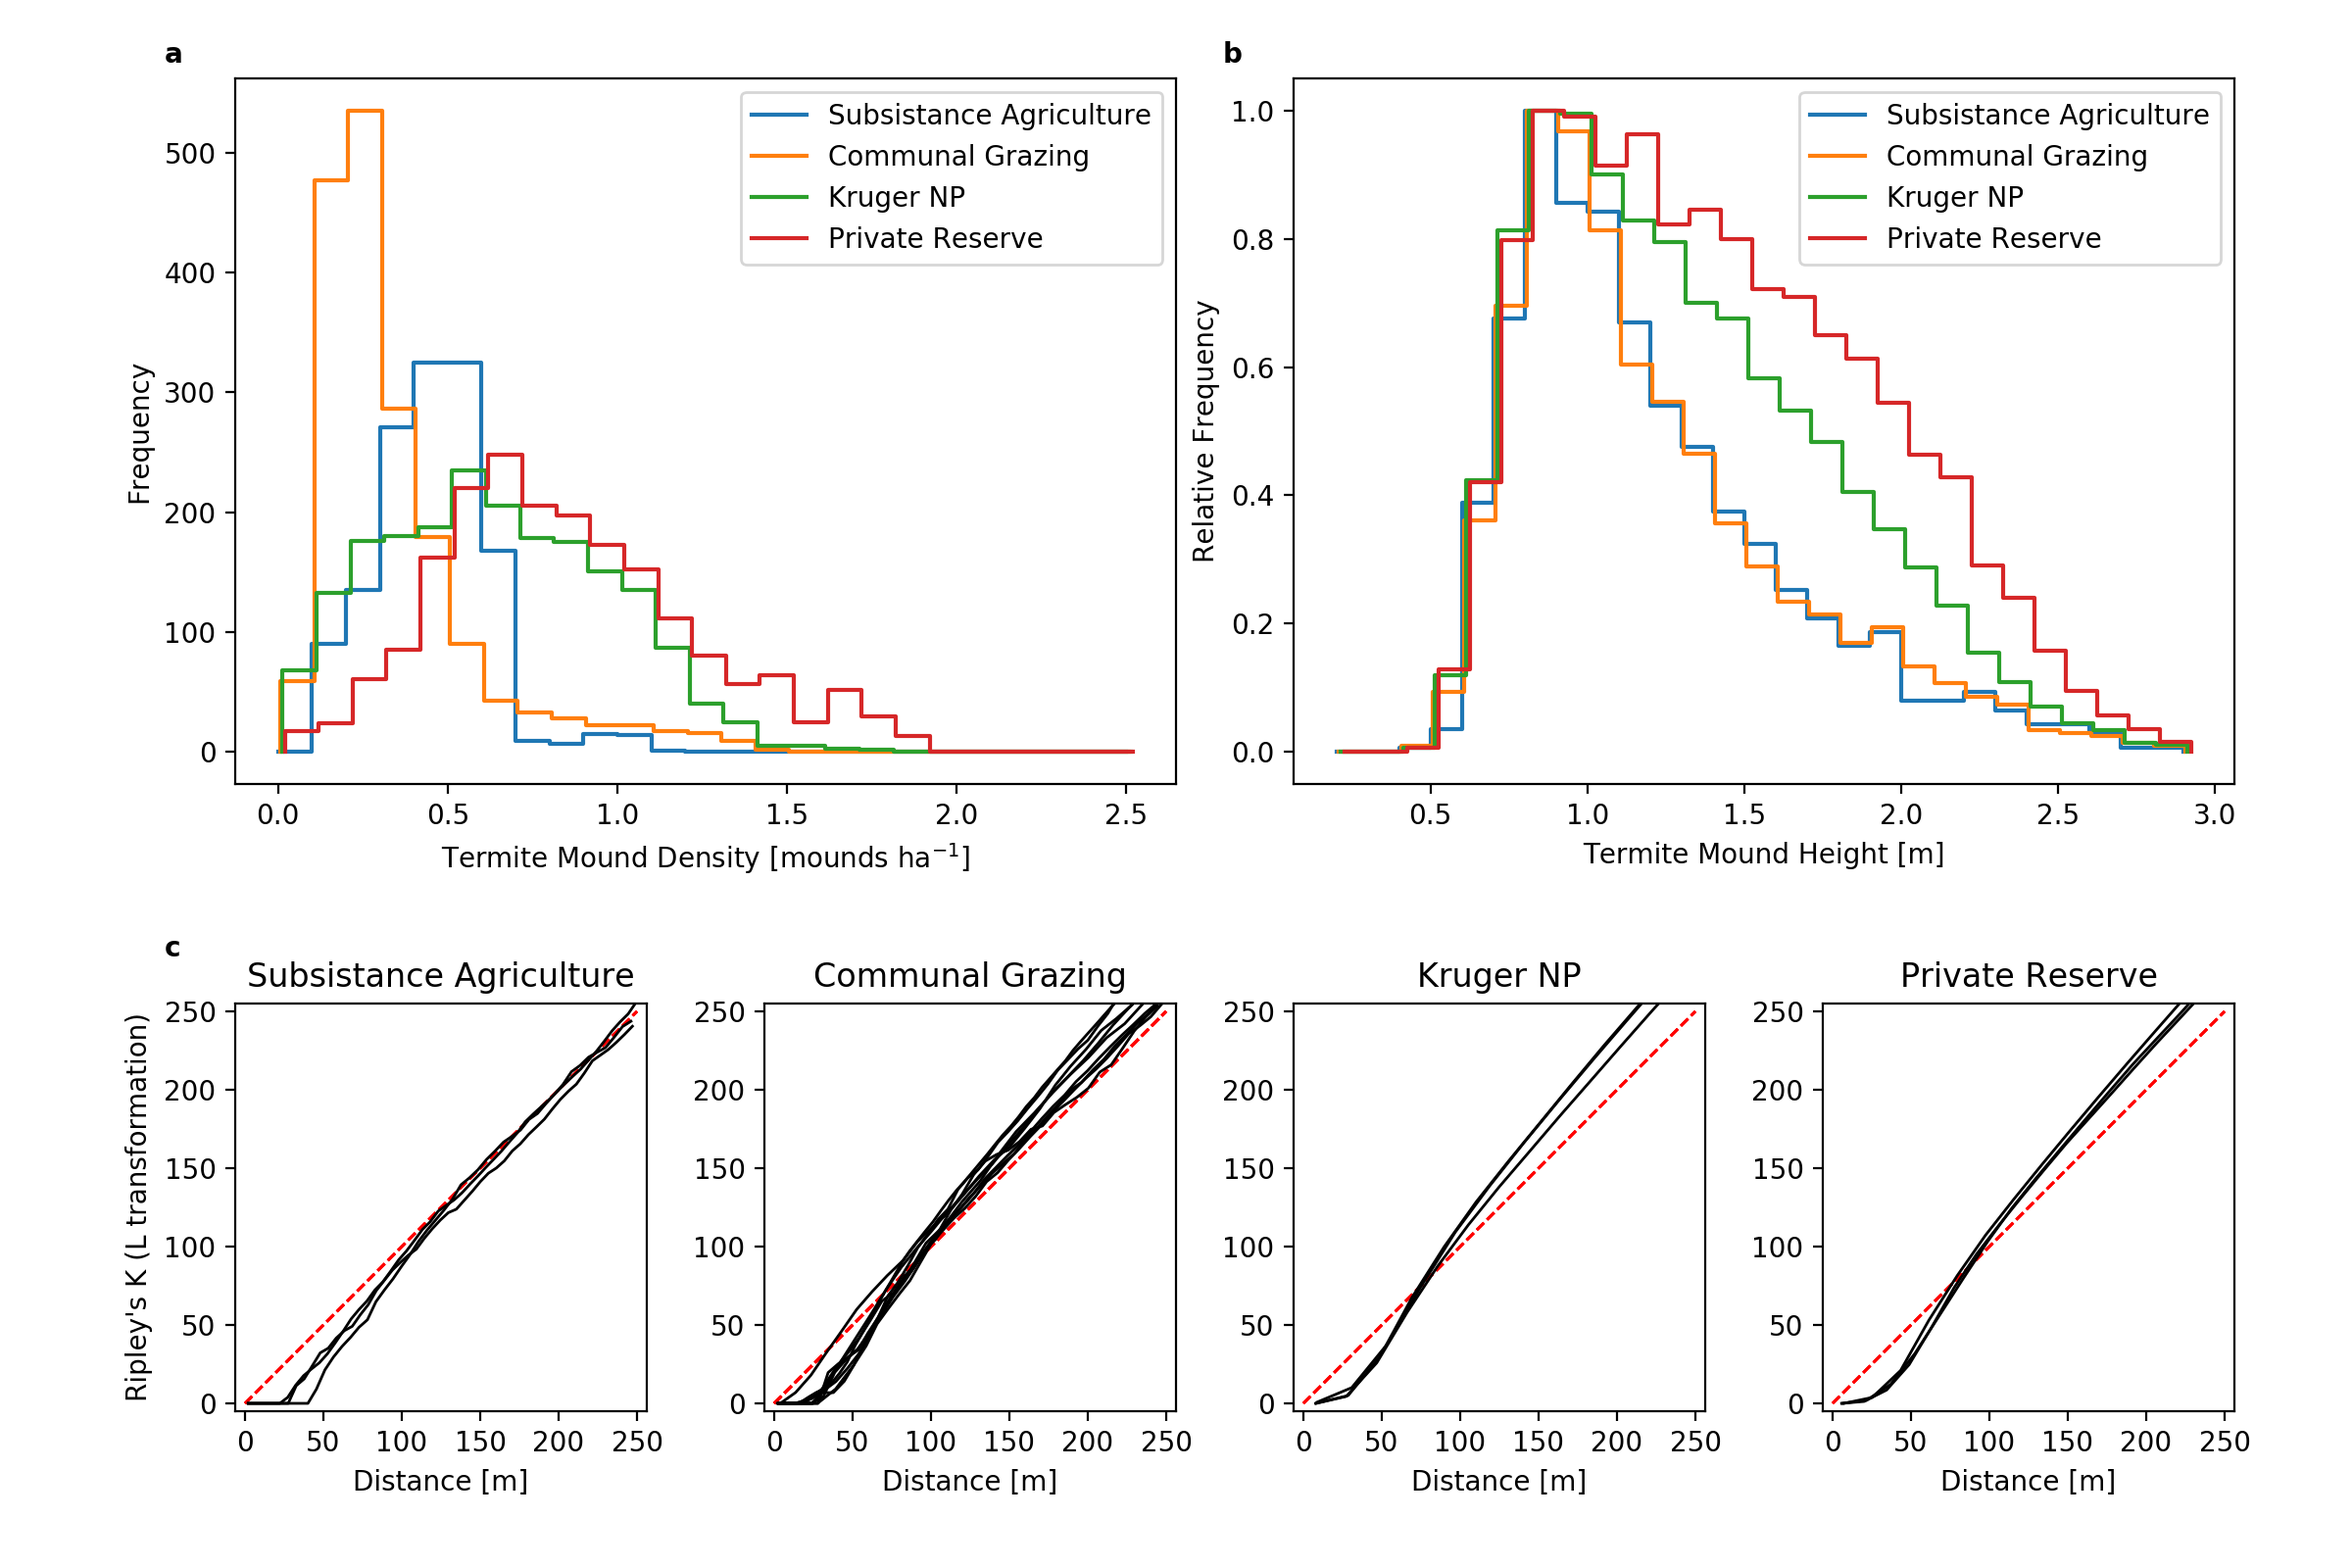
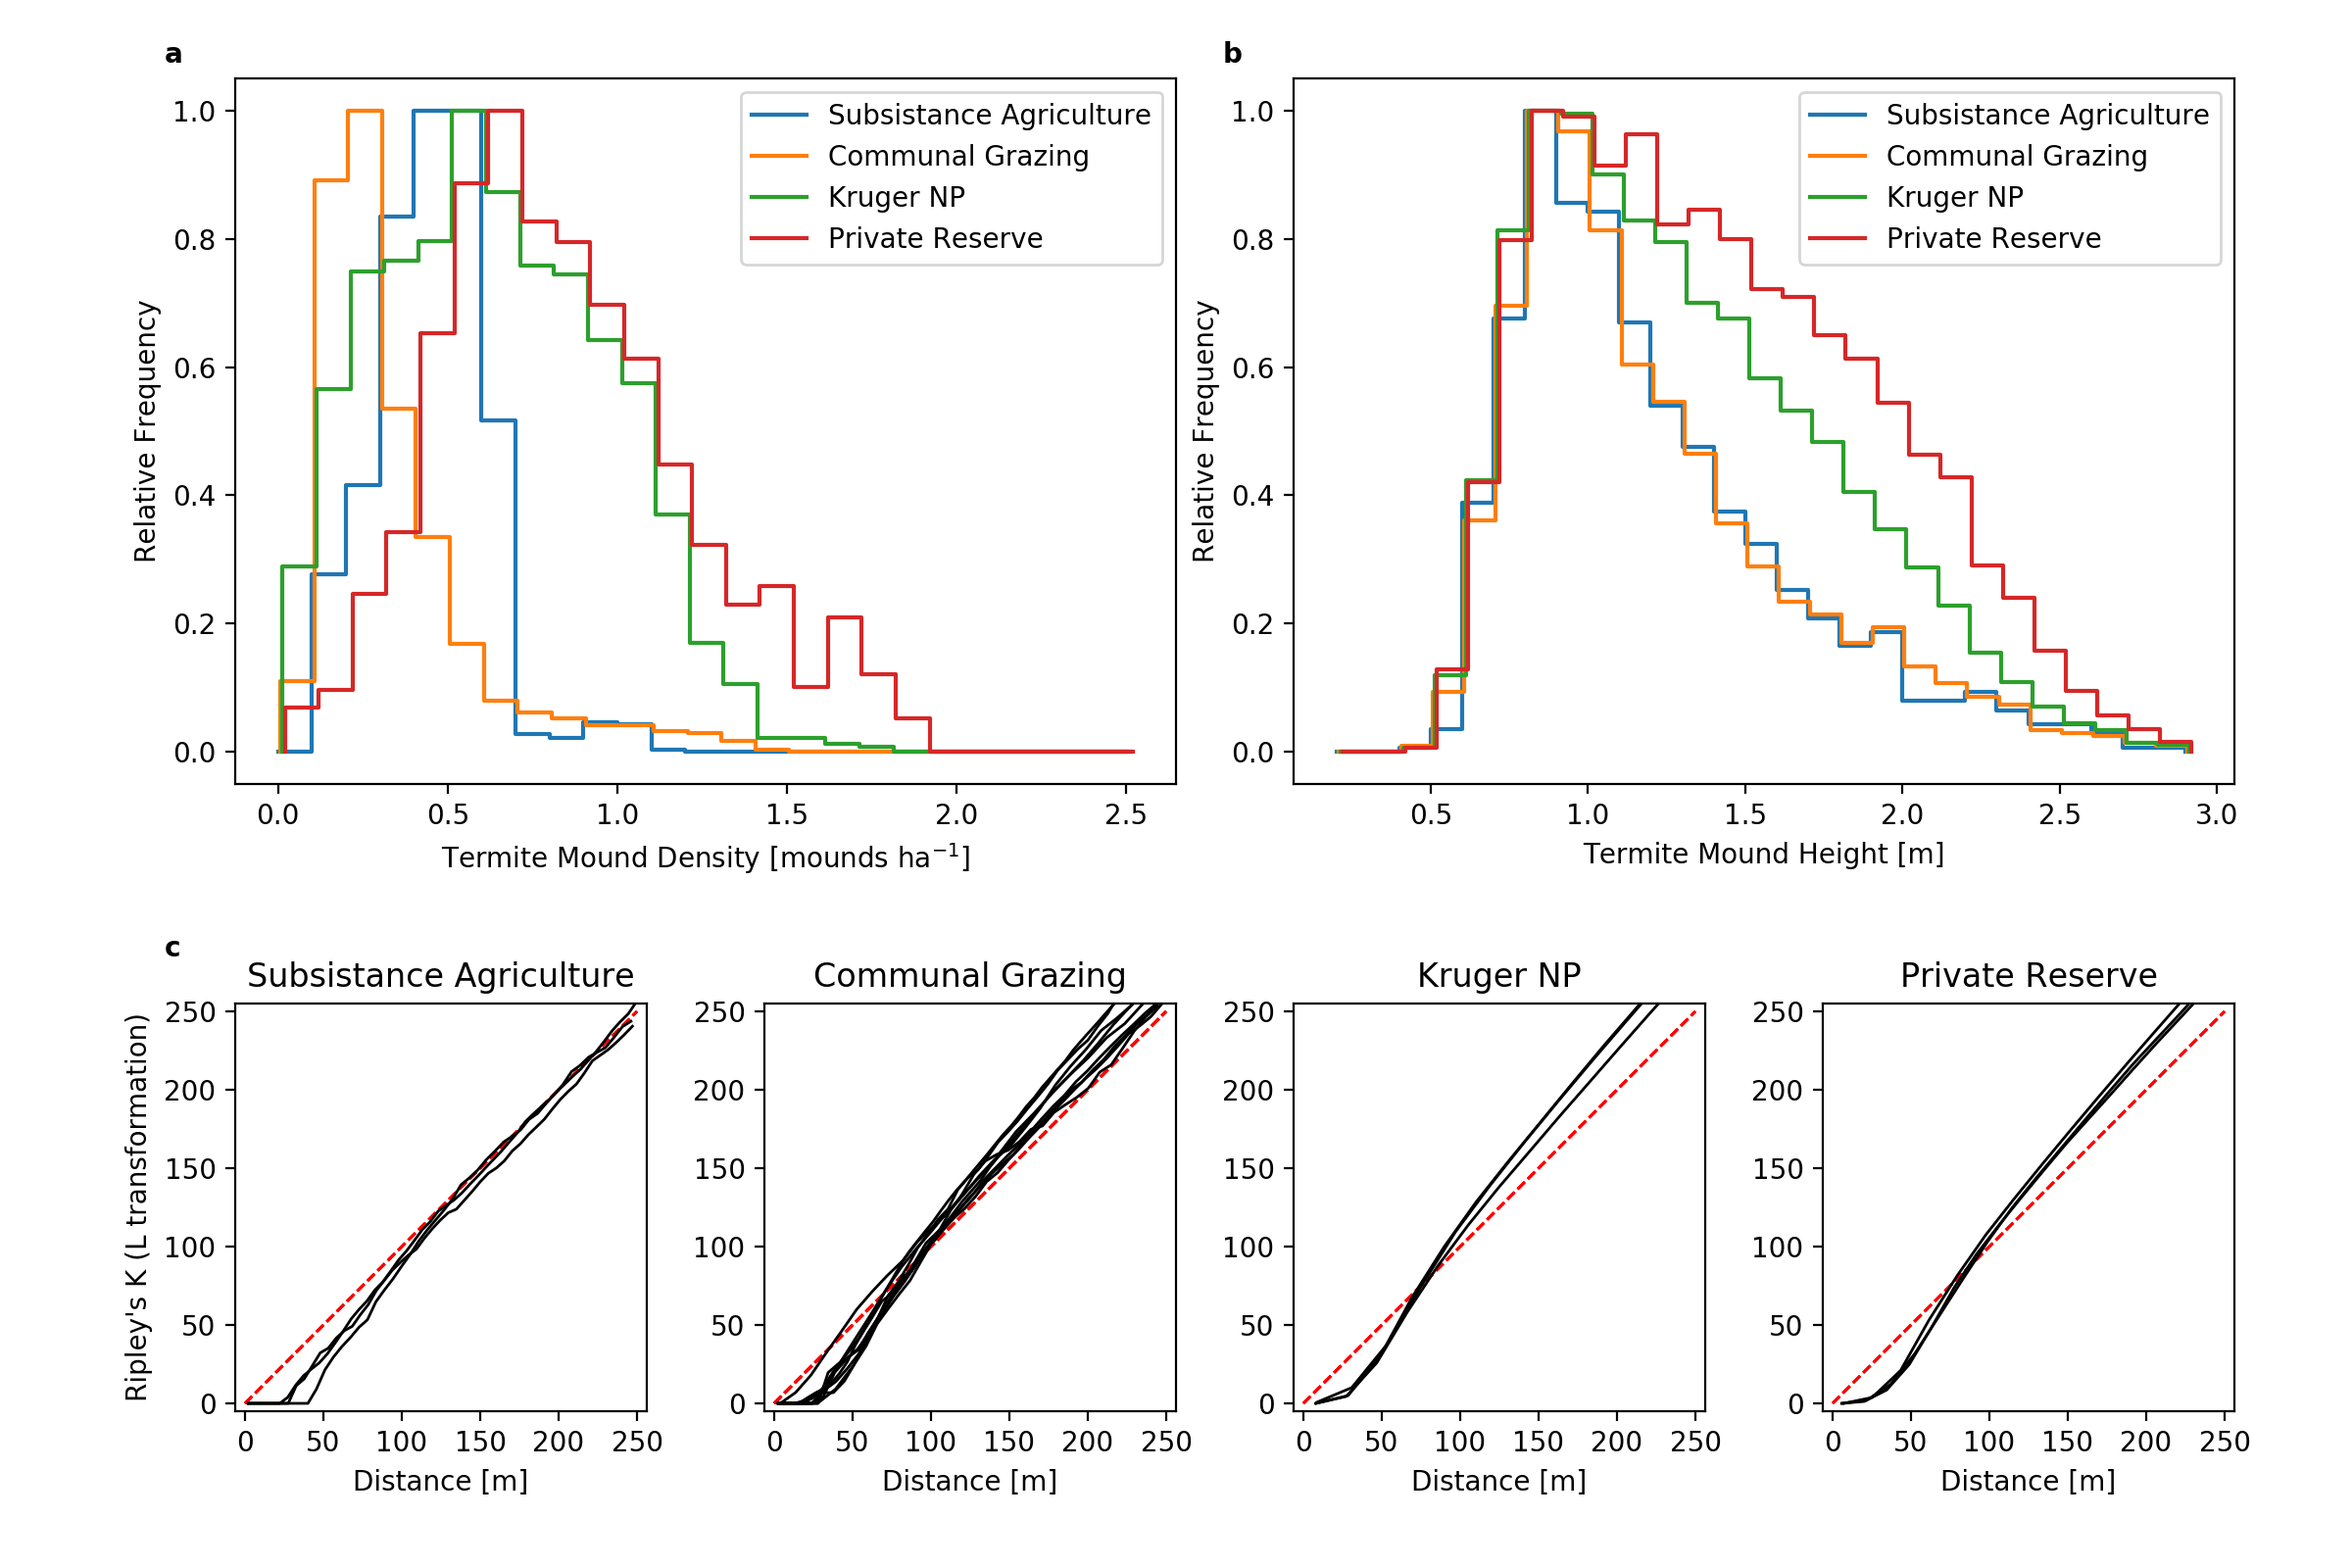
updated SI and main figure 3 to be normalized histograms for desnity plots

diff --git a/main_text_plots.py b/main_text_plots.py
@@ -57,6 +57,7 @@ ax = fig.add_axes([0.1,0.5,0.4,0.45],zorder=0)
 
 ss = 0.10
 density_bins = np.arange(0.0,2.6,step=ss)
+c = 0
 for n in range(len(un_treat)):
   
   l_density = density[treatment == un_treat[n]]
@@ -64,11 +65,12 @@ for n in range(len(un_treat)):
   l_density = l_density[l_reps >= float(int(subsample_size)**2)/2.]
 
   h,b = np.histogram(l_density,bins=density_bins)
-  b,h = plot_lhist(h,b)
-  plt.plot(h + float(n) / 15. * ss,b)
+  b,h = plot_lhist(h / np.max(h),b)
+  plt.plot(h + float(c) / 15. * ss,b)
+  c+=1
 
 plt.xlabel('Termite Mound Density [mounds ha$^{-1}$]')
-plt.ylabel('Frequency')
+plt.ylabel('Relative Frequency')
 
 plt.legend(un_treat_label)
 
@@ -90,13 +92,15 @@ height_list = np.load('munged_dat/height_values.npy')
 
 ss = 0.10
 height_bins = np.arange(0.2,3.0,step=ss)
+c = 0
 for n in range(len(un_treat)):
   if (un_treat[n] != 'nature_reserve'):   
     h,b = np.histogram(height_list[n],bins=height_bins)
     b,h = plot_lhist(h/np.max(h),b)
     #b,h = plot_lhist(h,b)
-    plt.plot(h + float(n) / 15. * ss,b)
+    plt.plot(h + float(c) / 15. * ss,b)
     print(un_treat[n])
+    c+=1
 
 plt.xlabel('Termite Mound Height [m]')
 plt.ylabel('Relative Frequency')
@@ -179,7 +183,7 @@ for _t in range(0,len(un_treat)):
 
 plt.savefig('figs/figure_3.png',dpi=200)
 plt.clf()
-
+quit()
 
 
 

diff --git a/si_plots.py b/si_plots.py
@@ -59,7 +59,7 @@ def single_plot(subsample_size):
       l_density = l_density[l_reps >= float(int(subsample_size)**2)/2.]
     
       h,b = np.histogram(l_density,bins=density_bins)
-      b,h = plot_lhist(h,b)
+      b,h = plot_lhist(h / np.max(h),b)
       plt.plot(h + float(n) / 15. * bin_step,b)
     
     plt.xlabel('Termite Mound Density [mounds ha$^{-1}$]')
